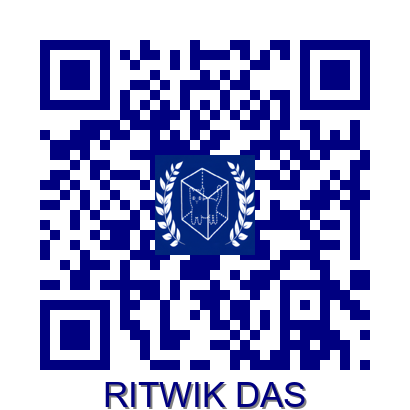
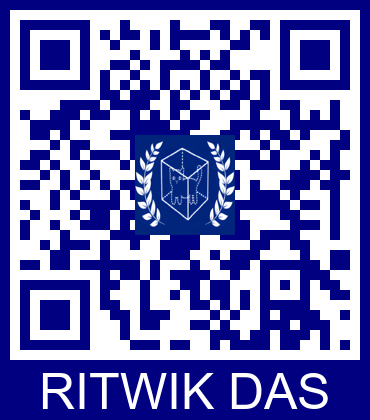
Committed: Fri, Dec  8, 2023  5:00:13 AM from Ritwik-C2N

diff --git a/generate_qr.py b/generate_qr.py
@@ -11,6 +11,7 @@ License Information: RHDS 10x7xx17, Beta Access 10x7xx19
 @author: Ritwik DAS (ritwik.das29@gmail.com)
 """
 
+
 import qrcode
 from PIL import Image, ImageDraw, ImageFont
 
@@ -20,84 +21,93 @@ def generate_qr(
     name="website",
     logo_path=None,
     text=None,
-    logo_size=80,
-    text_font_size=20,
-    qr_color="purple",
+    logo_size=100,
+    text_font_size=40,
+    qr_color="navy",
     background="white",
+    canvas_color="navy",
+    border_size=10,
 ):
     # Generate QR code
     qr = qrcode.QRCode(
         version=1,
         error_correction=qrcode.constants.ERROR_CORRECT_H,
         box_size=10,
-        border=4,
+        border=1,
     )
     qr.add_data(url)
     qr.make(fit=True)
 
     # Create an image from the QR Code instance
-    img = qr.make_image(fill_color=qr_color, back_color=background).convert("RGB")
+    qr_img = qr.make_image(fill_color=qr_color, back_color=background).convert("RGB")
 
+    # Add logo to the QR code if a path is provided
     if logo_path:
-        # Add logo to the QR code
         logo = Image.open(logo_path)
         logo.thumbnail((logo_size, logo_size))
         logo_pos = (
-            (img.size[0] - logo.size[0]) // 2,
-            (img.size[1] - logo.size[1]) // 2,
+            (qr_img.size[0] - logo.size[0]) // 2,
+            (qr_img.size[1] - logo.size[1]) // 2,
         )
-        img.paste(logo, logo_pos, mask=logo)
+        qr_img.paste(logo, logo_pos, mask=logo)
 
-    if text:
-        # Add artistic text under the QR code
-        draw = ImageDraw.Draw(img)
-        font = ImageFont.truetype("arial.ttf", text_font_size)
+    # Calculate the total canvas size, accounting for the border
+    canvas_width = qr_img.size[0] + 2 * border_size
+    canvas_height = qr_img.size[1] + 2 * border_size + text_font_size
 
-        # Calculate the bounding box for the text
-        text_box = draw.textbbox((0, 0), text, font=font)
-        text_width = text_box[2] - text_box[0]
-        text_height = text_box[3] - text_box[1]
+    # Create a larger canvas for QR code and text
+    canvas = Image.new("RGB", (canvas_width, canvas_height), canvas_color)
 
-        # Calculate the position for the text to appear at the bottom center
-        text_x = (img.size[0] - text_width) // 2
-        text_y = img.size[1] - text_height - 10  # 10 pixels from the bottom
+    # Paste the QR image onto the canvas, centered at the top with a border
+    qr_position = (border_size, border_size)
+    canvas.paste(qr_img, qr_position)
 
-        # Add some artistic styling (e.g., shadow effect)
-        shadow_color = "grey"
-        # Draw shadow first
-        draw.text((text_x + 2, text_y + 2), text, font=font, fill=shadow_color)
-        # Draw text
-        draw.text((text_x, text_y), text, font=font, fill=qr_color)
+    # Initialize drawing context for text
+    draw = ImageDraw.Draw(canvas)
+    font = ImageFont.truetype("arial.ttf", text_font_size)
 
-    # Save it somewhere, change the path as needed
-    img.save(f"QR_{name}.png")
+    # Use textbbox to calculate the bounding box for the text
+    text_box = draw.textbbox((0, 0), text, font=font)
+    text_width = text_box[2] - text_box[0]
+    text_height = text_box[3] - text_box[1]
+
+    # Calculate text position for center alignment within the blue box
+    text_x = (canvas_width - text_width) // 2
+    text_y = canvas_height - border_size - (text_font_size + text_height)//1.8
+
+    # Draw the text
+    draw.text((text_x, text_y), text, font=font, fill=background)
+
+    # Save the resulting image
+    canvas.save(f"QR_{name}.png")
 
 
 ## ======================================================== ##
 ## ======================================================== ##
 
 
-## Define the full website URL (will be redirected to this link)
+# Define the full website URL (will be redirected to this link)
 url = "https://ritwikdas.gitlab.io"
 
-## Naming convention of the website URL
+# Naming convention of the website URL
 name = "ritwikdas.gitlab.io"
 
-## Path to logo image (optional)
-logo_path = "favicon-2.png"
+# Path to logo image (optional)
+logo_path = "favicon-2.png"  # Replace with the path to your logo image
 
-## Text to add under the QR code (optional)
+# Text to add under the QR code (optional)
 text = "RITWIK DAS"
 
-## Call the generate_qr function with the given URL, logo path, and text
-## You can now specify the logo size, text font size, QR color, and background color as needed
+# Call the generate_qr function with the given URL and text
 generate_qr(
     url,
     name,
     logo_path=logo_path,
     text=text,
     logo_size=100,
-    text_font_size=35,
+    text_font_size=50,
     qr_color="navy",
     background="white",
+    canvas_color="navy",
+    border_size=10,
 )
